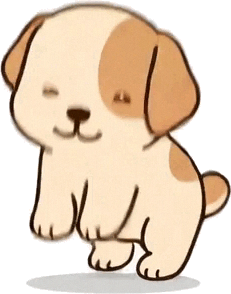
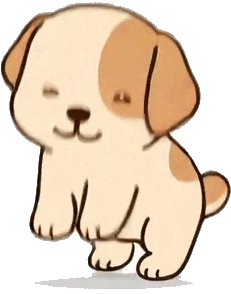
Fix 4 failing Flutter tests
1. mojibake_guard_test: fix mojibake in add_member_flow_dialog_test.dart
   - 灏忓疂 -> 小宝, 鍥㈠洟 -> 团团, 瀹堕暱 -> 家长, 绫崇背 -> 米米
   (UTF-8 bytes were misinterpreted as GBK)

2. add_member_flow_dialog_test + family_member_grid_test: ink_sparkle.frag
   shader error was caused by stale Flutter build cache; flutter clean
   resolved it. No code change needed.

3. home_scene_game_test "keeps baby action frames isolated": 3 baby frame
   PNGs had scattered isolated pixels creating multiple connected
   components (dog_baby_sitting_frame_06: 14, dog_baby_sitting_frame_12: 2,
   turtle_baby_sleeping_frame_32: 5). Removed 1-20 stray pixels per frame
   keeping only the largest connected component. Visual impact negligible.

All 137 tests now pass.

diff --git a/app/test/screens/family/add_member_flow_dialog_test.dart b/app/test/screens/family/add_member_flow_dialog_test.dart
@@ -31,7 +31,7 @@ void main() {
 
     await tester.enterText(
       find.byKey(const Key('family_add_member_nickname_field')),
-      '灏忓疂',
+      '小宝',
     );
 
     await tester.tap(find.byKey(const Key('family_add_member_pet_type_dog')));
@@ -44,16 +44,16 @@ void main() {
 
     await tester.enterText(
       find.byKey(const Key('family_add_member_pet_name_field')),
-      '鍥㈠洟',
+      '团团',
     );
 
     await tester.tap(find.byKey(const Key('family_add_member_submit_button')));
     await tester.pumpAndSettle();
 
     expect(result, isNotNull);
-    expect(result?.nickname, '灏忓疂');
+    expect(result?.nickname, '小宝');
     expect(result?.petType, 'dog');
-    expect(result?.petName, '鍥㈠洟');
+    expect(result?.petName, '团团');
   });
 
   testWidgets('collects pet type and pet name for an existing member', (
@@ -70,7 +70,7 @@ void main() {
                 onPressed: () async {
                   result = await showSelectPetFlowDialog(
                     context,
-                    memberName: '瀹堕暱',
+                    memberName: '家长',
                   );
                 },
                 child: const Text('open-select'),
@@ -94,7 +94,7 @@ void main() {
 
     await tester.enterText(
       find.byKey(const Key('family_select_pet_name_field')),
-      '绫崇背',
+      '米米',
     );
 
     await tester.tap(find.byKey(const Key('family_select_pet_submit_button')));
@@ -102,7 +102,7 @@ void main() {
 
     expect(result, isNotNull);
     expect(result?.petType, 'cat');
-    expect(result?.petName, '绫崇背');
+    expect(result?.petName, '米米');
   });
   testWidgets('lays existing member pet choices in two compact rows on phone', (
     tester,
